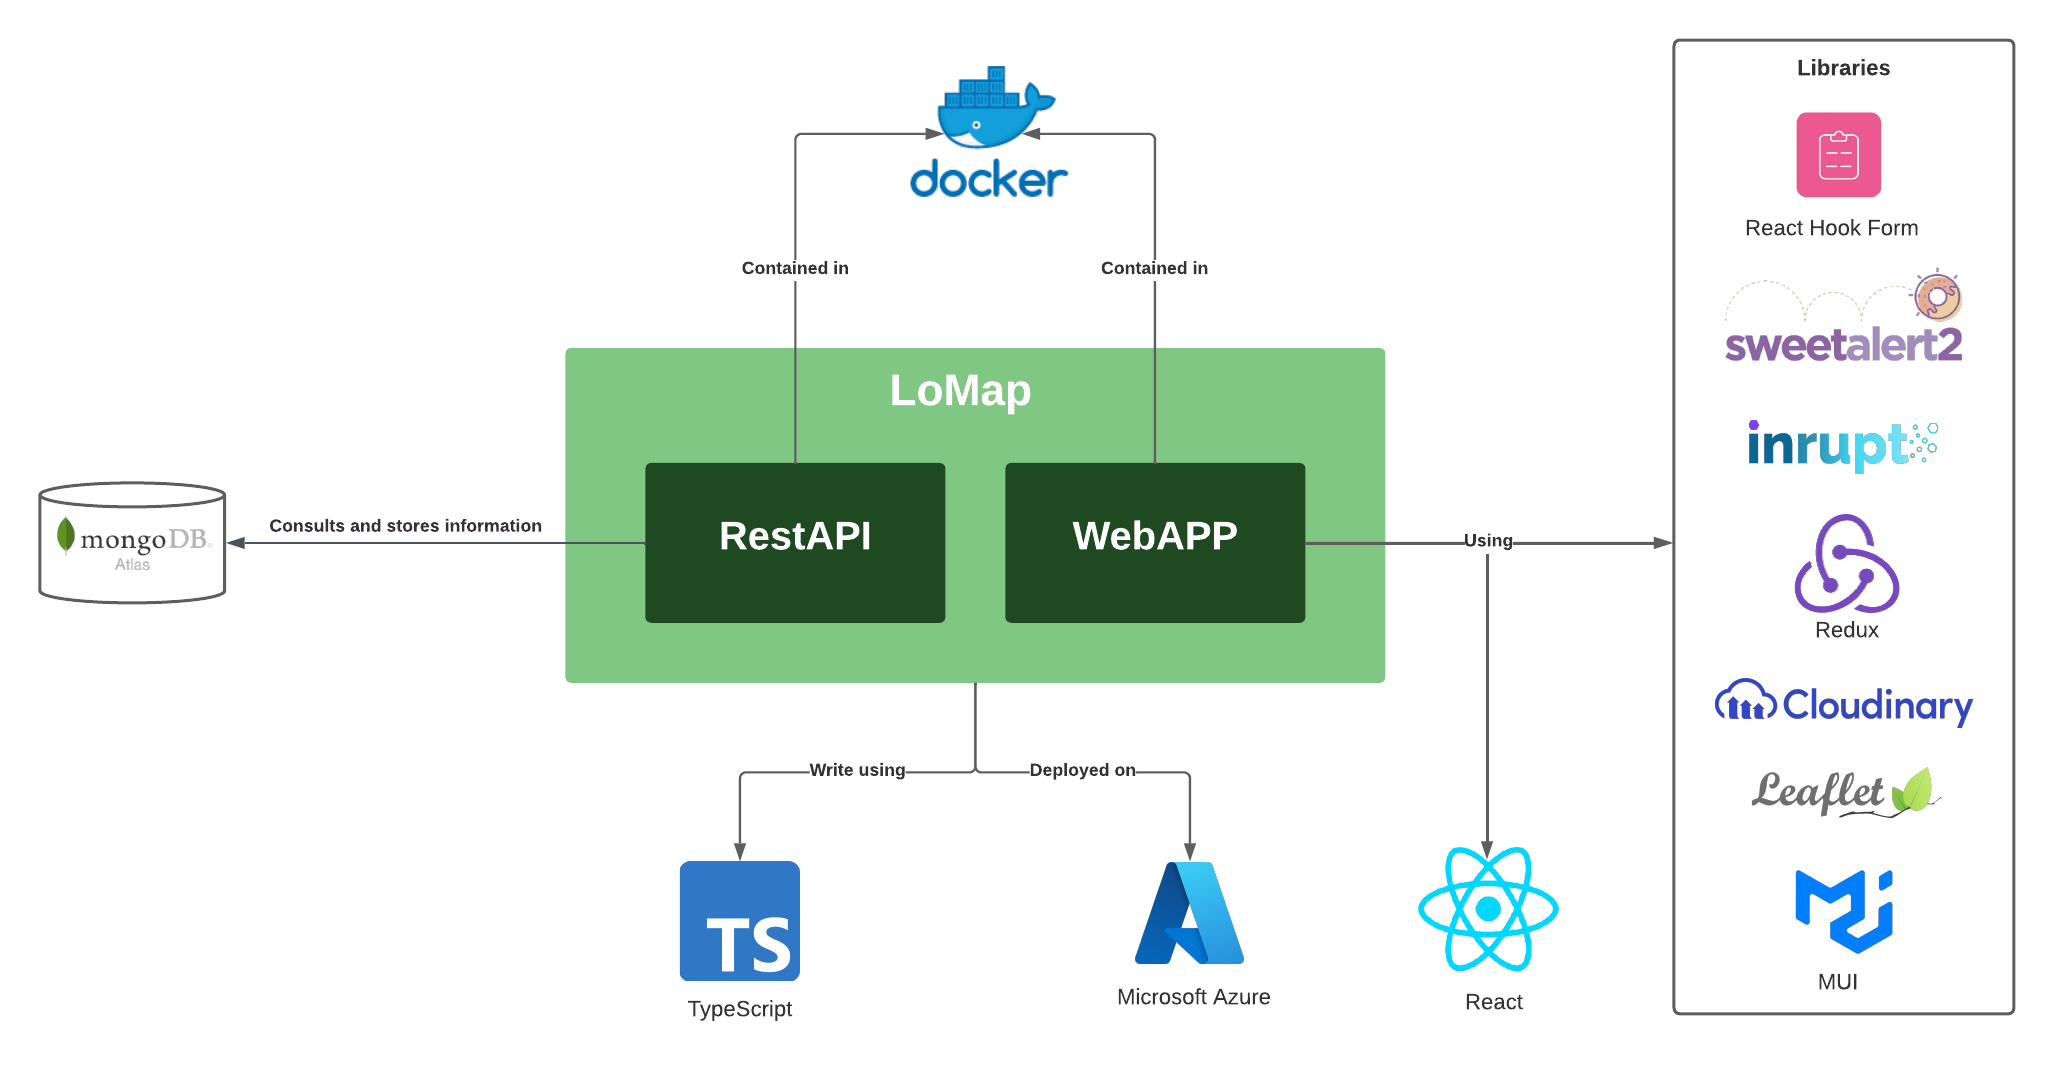
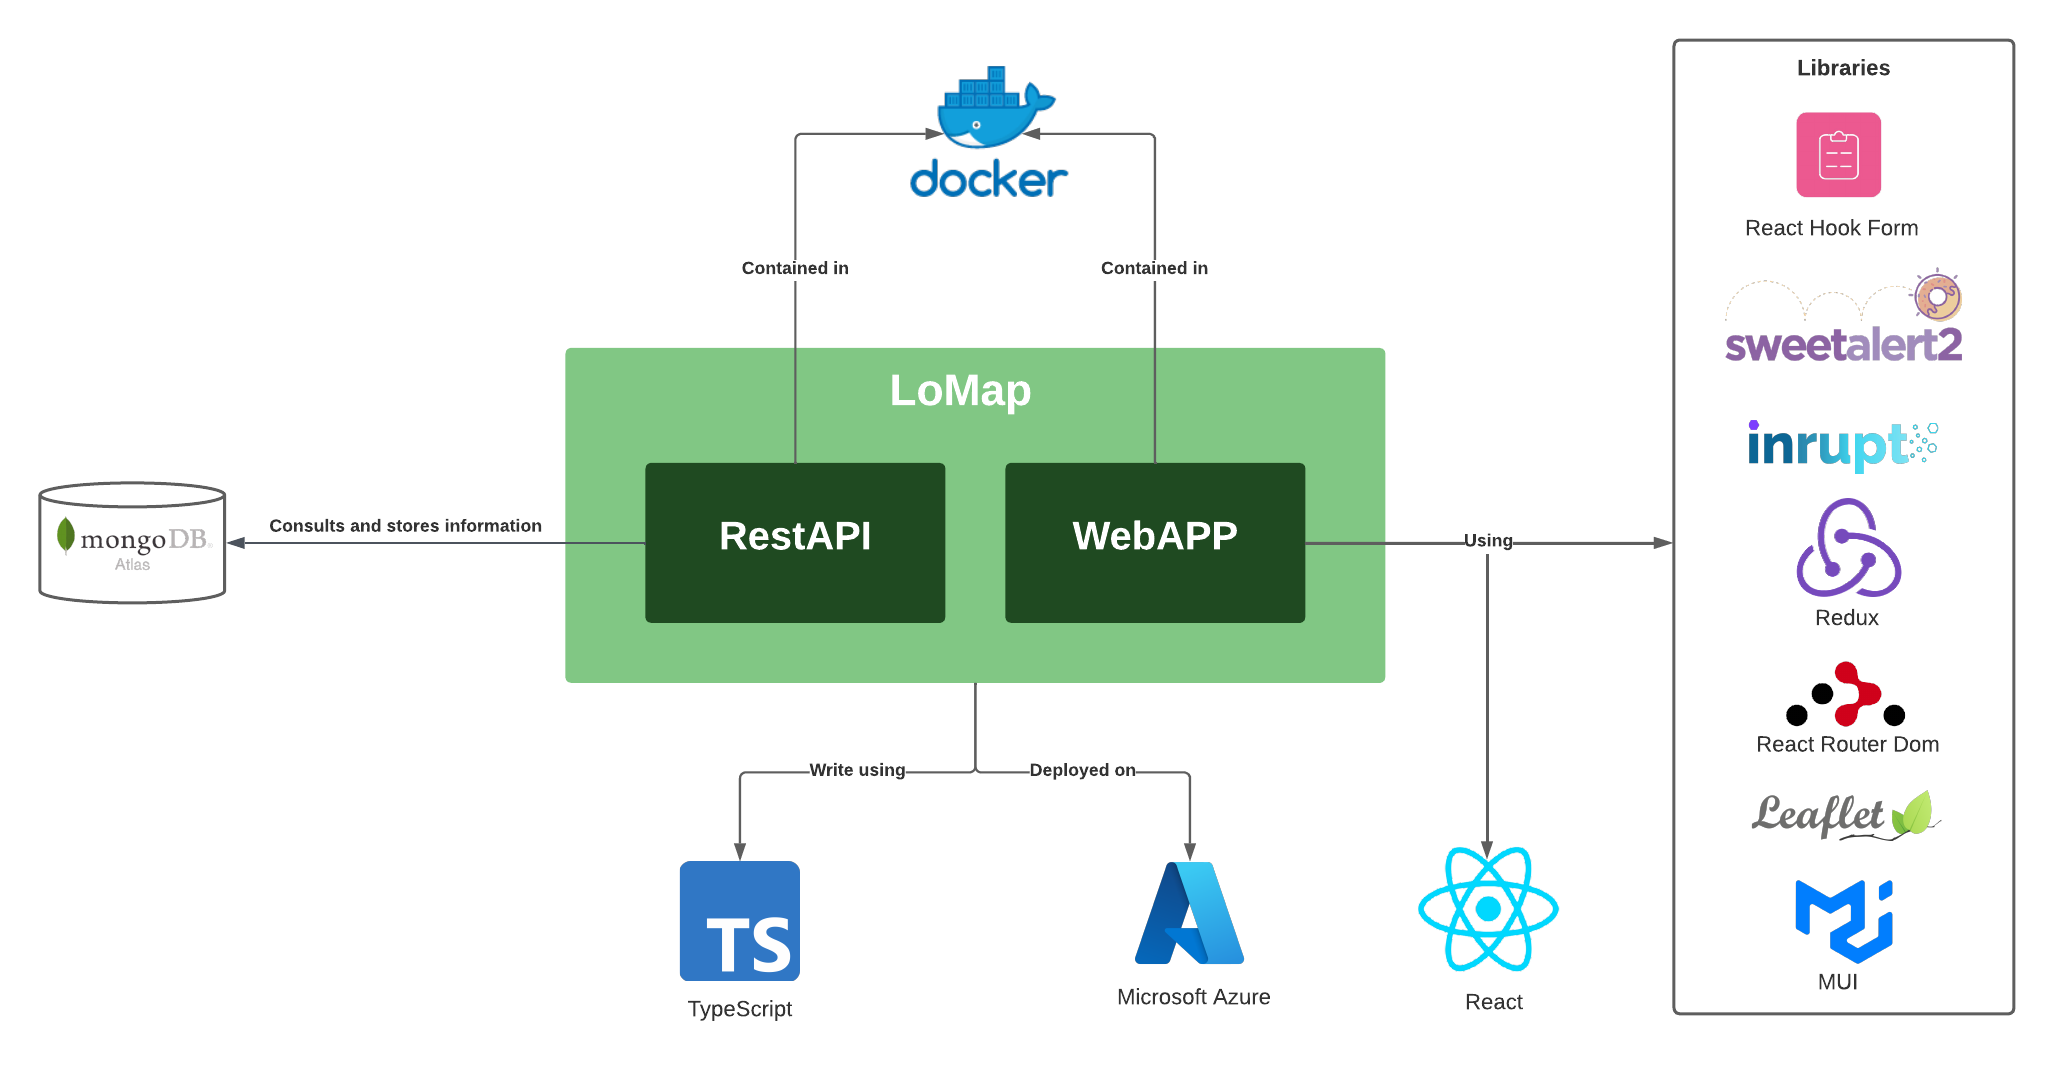
Updates

Changed region(s): [[0.8409, 0.4575, 0.9655, 0.8845]]

diff --git a/index.html b/index.html
@@ -438,7 +438,7 @@ body.book #toc,body.book #preamble,body.book h1.sect0,body.book .sect1>h2{page-b
 </head>
 <body class="article toc2 toc-left">
 <div id="header">
-<h1><span class="image"><img src="./images/LogoASW.png" alt="arc42"></span> LOMAP ES2C</h1>
+<h1><span class="image"><img src="./images/LogoCompleto.jpg" alt="arc42"></span> LOMAP ES2C</h1>
 <div id="toc" class="toc2">
 <div id="toctitle">Table of Contents</div>
 <ul class="sectlevel1">
@@ -2201,7 +2201,7 @@ more precisely down to a level of scenarios that can be discussed and evaluated.
 </tr>
 <tr>
 <td class="tableblock halign-left valign-top"><p class="tableblock">leaflet</p></td>
-<td class="tableblock halign-left valign-top"><p class="tableblock">Librería que adapta el uso de OpenStreetMap facilitando su uso y de licencia gratuita.</p></td>
+<td class="tableblock halign-left valign-top"><p class="tableblock">Librería que adapta el uso de OpenStreetMap facilitando su implementación y de licencia gratuita.</p></td>
 </tr>
 <tr>
 <td class="tableblock halign-left valign-top"><p class="tableblock">yup</p></td>
@@ -2210,6 +2210,10 @@ more precisely down to a level of scenarios that can be discussed and evaluated.
 <tr>
 <td class="tableblock halign-left valign-top"><p class="tableblock">@inrupt/solid-ui-react</p></td>
 <td class="tableblock halign-left valign-top"><p class="tableblock">Librería Inrupt utilizada para manejar los PODs.</p></td>
+</tr>
+<tr>
+<td class="tableblock halign-left valign-top"><p class="tableblock">redux</p></td>
+<td class="tableblock halign-left valign-top"><p class="tableblock">Librería que facilita el manejo de estado de la aplicación.</p></td>
 </tr>
 </tbody>
 </table>
@@ -2288,7 +2292,7 @@ Created by Dr. Peter Hruschka &amp; Dr. Gernot Starke.</p>
 </div>
 <div id="footer">
 <div id="footer-text">
-Last updated 2023-03-03 13:44:19 +0100
+Last updated 2023-05-02 23:28:13 +0200
 </div>
 </div>
 </body>
